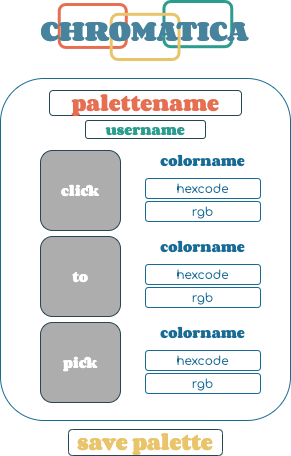
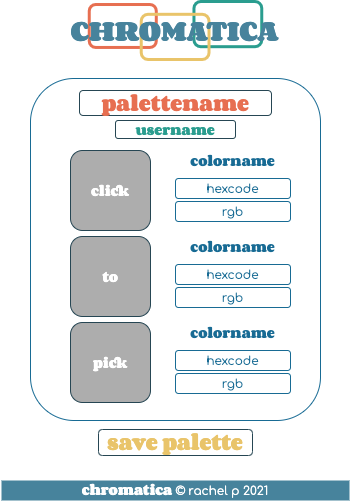
update wireframes in README + add palette editing functionality

diff --git a/chromatica-app/src/components/Form.jsx b/chromatica-app/src/components/Form.jsx
@@ -1,0 +1,90 @@
+import axios from "axios";
+import { useState, React, useEffect } from "react";
+import { useHistory, useParams } from "react-router-dom";
+import { baseURL, config } from "../services";
+
+const Form = (props) => {
+  const params = useParams();
+  const history = useHistory();
+  const [paletteName, setPaletteName] = useState("");
+  const [username, setUsername] = useState("");
+  const [color1, setColor1] = useState("#6c757d");
+  const [color2, setColor2] = useState("#6c757d");
+  const [color3, setColor3] = useState("#6c757d");
+
+  useEffect(() => {
+    if (params.id) {
+      const palette = props.palettes.find(
+        (palette) => palette.id === params.id
+      );
+      if (palette) {
+        setPaletteName(palette.fields.palette);
+        setColor1(palette.fields.hex1);
+        setColor2(palette.fields.hex2);
+        setColor3(palette.fields.hex3);
+      }
+    }
+  }, [params.id, props.palettes]);
+
+  const handleSubmit = async (e) => {
+    e.preventDefault();
+    const newPalette = {
+      fields: {
+        palette: paletteName,
+        hex1: color1,
+        hex2: color2,
+        hex3: color3,
+        username: username,
+      },
+    };
+    if (params.id) {
+      await axios.put(`${baseURL}/${params.id}`, newPalette, config);
+    } else {
+      await axios.post(baseURL, newPalette, config);
+    }
+    props.setToggleFetch((curr) => !curr);
+    history.push("/");
+  };
+
+  return (
+    <form onSubmit={handleSubmit}>
+      <input
+        required
+        autoComplete="off"
+        type="text"
+        id="form-palette"
+        value={paletteName}
+        onChange={(e) => setPaletteName(e.target.value)}
+      />
+      <input
+        required
+        autoComplete="off"
+        type="text"
+        id="form-user"
+        value={username}
+        onChange={(e) => setUsername(e.target.value)}
+      />
+      <input
+        type="color"
+        id="form-color1"
+        value={color1}
+        onChange={(e) => setColor1(e.target.value)}
+      />
+      <input
+        type="color"
+        id="form-color2"
+        value={color2}
+        onChange={(e) => setColor2(e.target.value)}
+      />
+      <input
+        type="color"
+        id="form-color3"
+        value={color3}
+        onChange={(e) => setColor3(e.target.value)}
+      />
+      <button type="submit">save palette</button>
+    </form>
+  );
+};
+
+export default Form;

diff --git a/chromatica-app/src/App.js b/chromatica-app/src/App.js
@@ -1,11 +1,11 @@
 import { useEffect, useState } from 'react';
 import axios from 'axios';
 import { baseURL, config } from './services'
-import { Link, Route } from 'react-router-dom';
+import { Route } from 'react-router-dom';
 import './App.css';
+import Nav from './components/Nav';
 import Palette from './components/Palette';
-import New from './components/New';
-import Edit from './components/Edit';
+import Form from './components/Form';
 
 function App() {
 
@@ -23,12 +23,7 @@ function App() {
 
   return (
     <div className="App">
-      <header>
-        <nav>
-          <Link to='/new'>create palette</Link>
-        </nav>
-          <Link to='/'>Home</Link>
-      </header>
+      <Nav />
       <main>
         <Route path='/' exact>
         {palettes.map((palette) => (
@@ -36,10 +31,10 @@ function App() {
         ))}
         </Route>
         <Route path='/new' >
-          <New setToggleFetch={setToggleFetch}/>
+          <Form setToggleFetch={setToggleFetch}/>
         </Route>
         <Route path='/edit/:id'>
-          <Edit />
+          <Form setToggleFetch={setToggleFetch} palettes={palettes}/>
         </Route>
       </main>
     </div>

diff --git a/chromatica-app/src/components/Palette.jsx b/chromatica-app/src/components/Palette.jsx
@@ -1,3 +1,5 @@
+import { Link } from "react-router-dom";
+
 function Palette(props) {
   const { palette, username, hex1, hex2, hex3 } = props.palette.fields;
   return (
@@ -7,7 +9,7 @@ function Palette(props) {
       <div className="color-1" style={{ backgroundColor: `${ hex1 }` }}></div>
       <div className="color-2" style={{ backgroundColor: `${ hex2 }` }}></div>
       <div className="color-3" style={{ backgroundColor: `${ hex3 }` }}></div>
-      <button>Edit</button>
+      <Link to={`/edit/${props.palette.id}`}><button>Edit</button></Link>
       <button>Delete</button>
     </container>
   );

diff --git a/chromatica-app/src/components/Nav.jsx b/chromatica-app/src/components/Nav.jsx
@@ -1,0 +1,15 @@
+import React from 'react';
+import { Link } from 'react-router-dom';
+
+const Nav = () => {
+  return (
+    <header>
+      <nav>
+        <Link to='/new'>create palette</Link>
+      </nav>
+        <Link to='/'>Home</Link>
+    </header>
+  );
+};
+
+export default Nav;

diff --git a/README.md b/README.md
@@ -11,19 +11,19 @@ An app that helps you pick limited color palettes.
 ## Wireframes
 
 Mobile Home
-![chromatica-mobile-home (1)](https://user-images.githubusercontent.com/36183361/134074233-df0f240f-a9ac-4d6e-ad69-66354a1d2f9d.png)
+<img src='./wireframes/mobile/mobile-home.png' />
 
 Mobile Formpage
-![chromatica-mobile-formpage drawio](https://user-images.githubusercontent.com/36183361/134067619-8861f067-14d2-4c2c-bd7e-ead690f12c80.png)
+<img src='./wireframes/mobile/mobile-formpage.drawio .png' />
 
 Desktop Home
-![chromatica-desktop-home](https://user-images.githubusercontent.com/36183361/134069454-c520e2cb-831a-4416-a92b-a6f59bd7a1b9.png)
+<img src='./wireframes/desktop/desktop-home.png' />
 
 Desktop Create Formpage
-![chromatica-desktop-create-form](https://user-images.githubusercontent.com/36183361/134071415-83160b30-94e8-41c4-8eb7-99a11b6db60f.png)
+<img src='./wireframes/desktop/desktop-create-form.png' />
 
 Desktop Generate Formpage (Post MVP)
-![chromatic-desktop-generator-form](https://user-images.githubusercontent.com/36183361/134073303-7b5083d0-8198-49e4-a140-12fdfefdab53.png)
+<img src='./wireframes/desktop/desktop-generator-form.png' />
 
 ## Component Hierarchy
 
